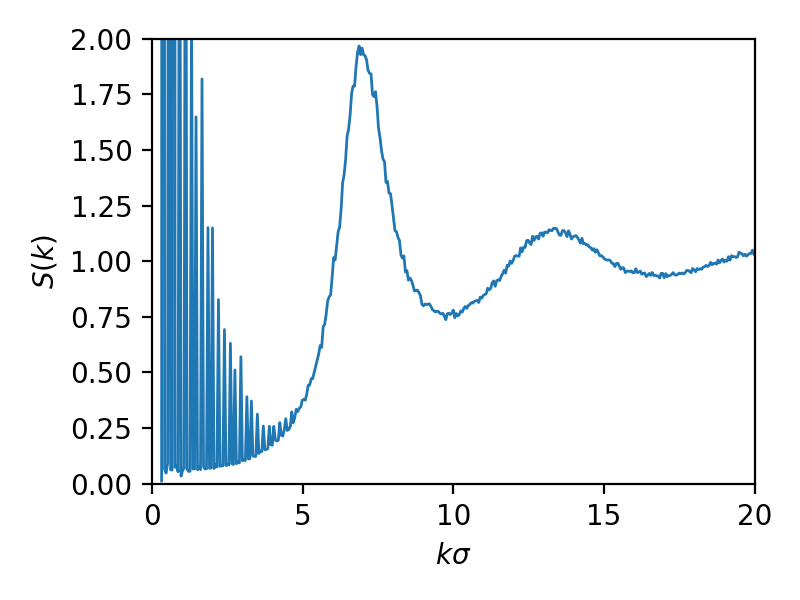
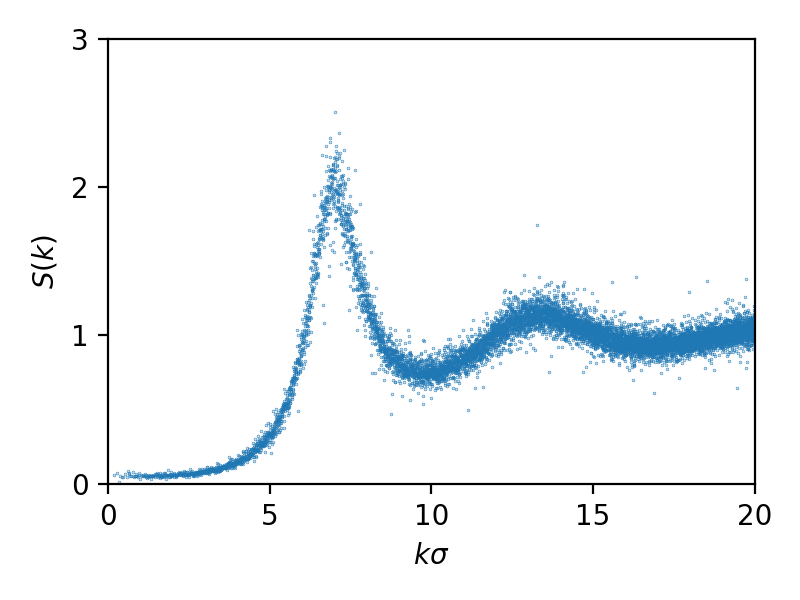
added script for visualization

diff --git a/sf_plot.py b/sf_plot.py
@@ -1,0 +1,78 @@
+import numpy as np
+import matplotlib.pyplot as plt
+
+#plt.rc('font', size=13, family="Times New Roman")
+#plt.rcParams["text.usetex"] = True
+
+class Sq:
+
+    def __init__(self, f_name):
+        self.f_name = f_name
+        res = np.loadtxt(f_name)
+        self.calculate(res)
+
+    def calculate(self, res, **kwargs):
+
+        q = res[:,:3]
+        modulus = np.linalg.norm(q, axis=1)
+        res = res[np.argsort(modulus)]
+
+        q = res[:,:3]
+        modulus = np.linalg.norm(q, axis=1)
+
+        val = res[:,3]
+
+        average = []
+        denom = 0
+        modulus_tmp = 0
+        sq = 0
+        for i in range(len(res)-1):
+            denom += 1
+            modulus_tmp += modulus[i]
+            sq += val[i]
+
+            arc_A = modulus[i]
+            arc_B = modulus[i+1]
+
+            if ( np.abs(arc_B**2 - arc_A**2) > 0.001 ):
+                average.append([modulus_tmp/denom, sq/denom])
+
+                denom = 0
+                modulus_tmp = 0
+                sq = 0
+
+        self.res = np.asarray(average)
+        
+lists = {}
+
+freqs = [0, 1, 2, 3, 4]
+
+for ind, freq in enumerate(freqs):
+    lists.update({ind: Sq('sq_{}.txt'.format(freq))})
+    #a.update({ind: Sq('sq.txt'.format(freq))})
+
+res = np.empty((len(freqs), len(lists[0].res[:,0])))
+
+for ind, freq in enumerate(freqs):
+    res[ind,:] = lists[ind].res[:,1]
+
+colors = plt.get_cmap('viridis')(np.linspace(0, 1, len(a)))
+
+fig, ax = plt.subplots(figsize=(4,3))
+#ax.plot(a[0].res[:,0], a[0].res[:,1], lw=1)
+ax.plot(lists[0].res[:,0], res.mean(axis=0), 'o', ms=0.2)
+ax.set_xlim(0, 20)
+ax.set_xlabel(r'$k\sigma$')
+ax.set_ylabel(r'$S(k)$')
+ax.set_ylim(0, 3)
+ax.set_yticks([0, 1, 2, 3])
+plt.tight_layout(pad=1,h_pad=None,w_pad=None,rect=None)
+plt.savefig('sq.png', dpi=200)
+
+
+'''
+freqs = [*np.linspace(0, 1000, 11, dtype=int),
+        *np.linspace(2000, 10000, 9, dtype=int),
+        *np.linspace(20000, 100000, 9, dtype=int),
+        *np.linspace(200000, 1000000, 9, dtype=int)]
+        '''
